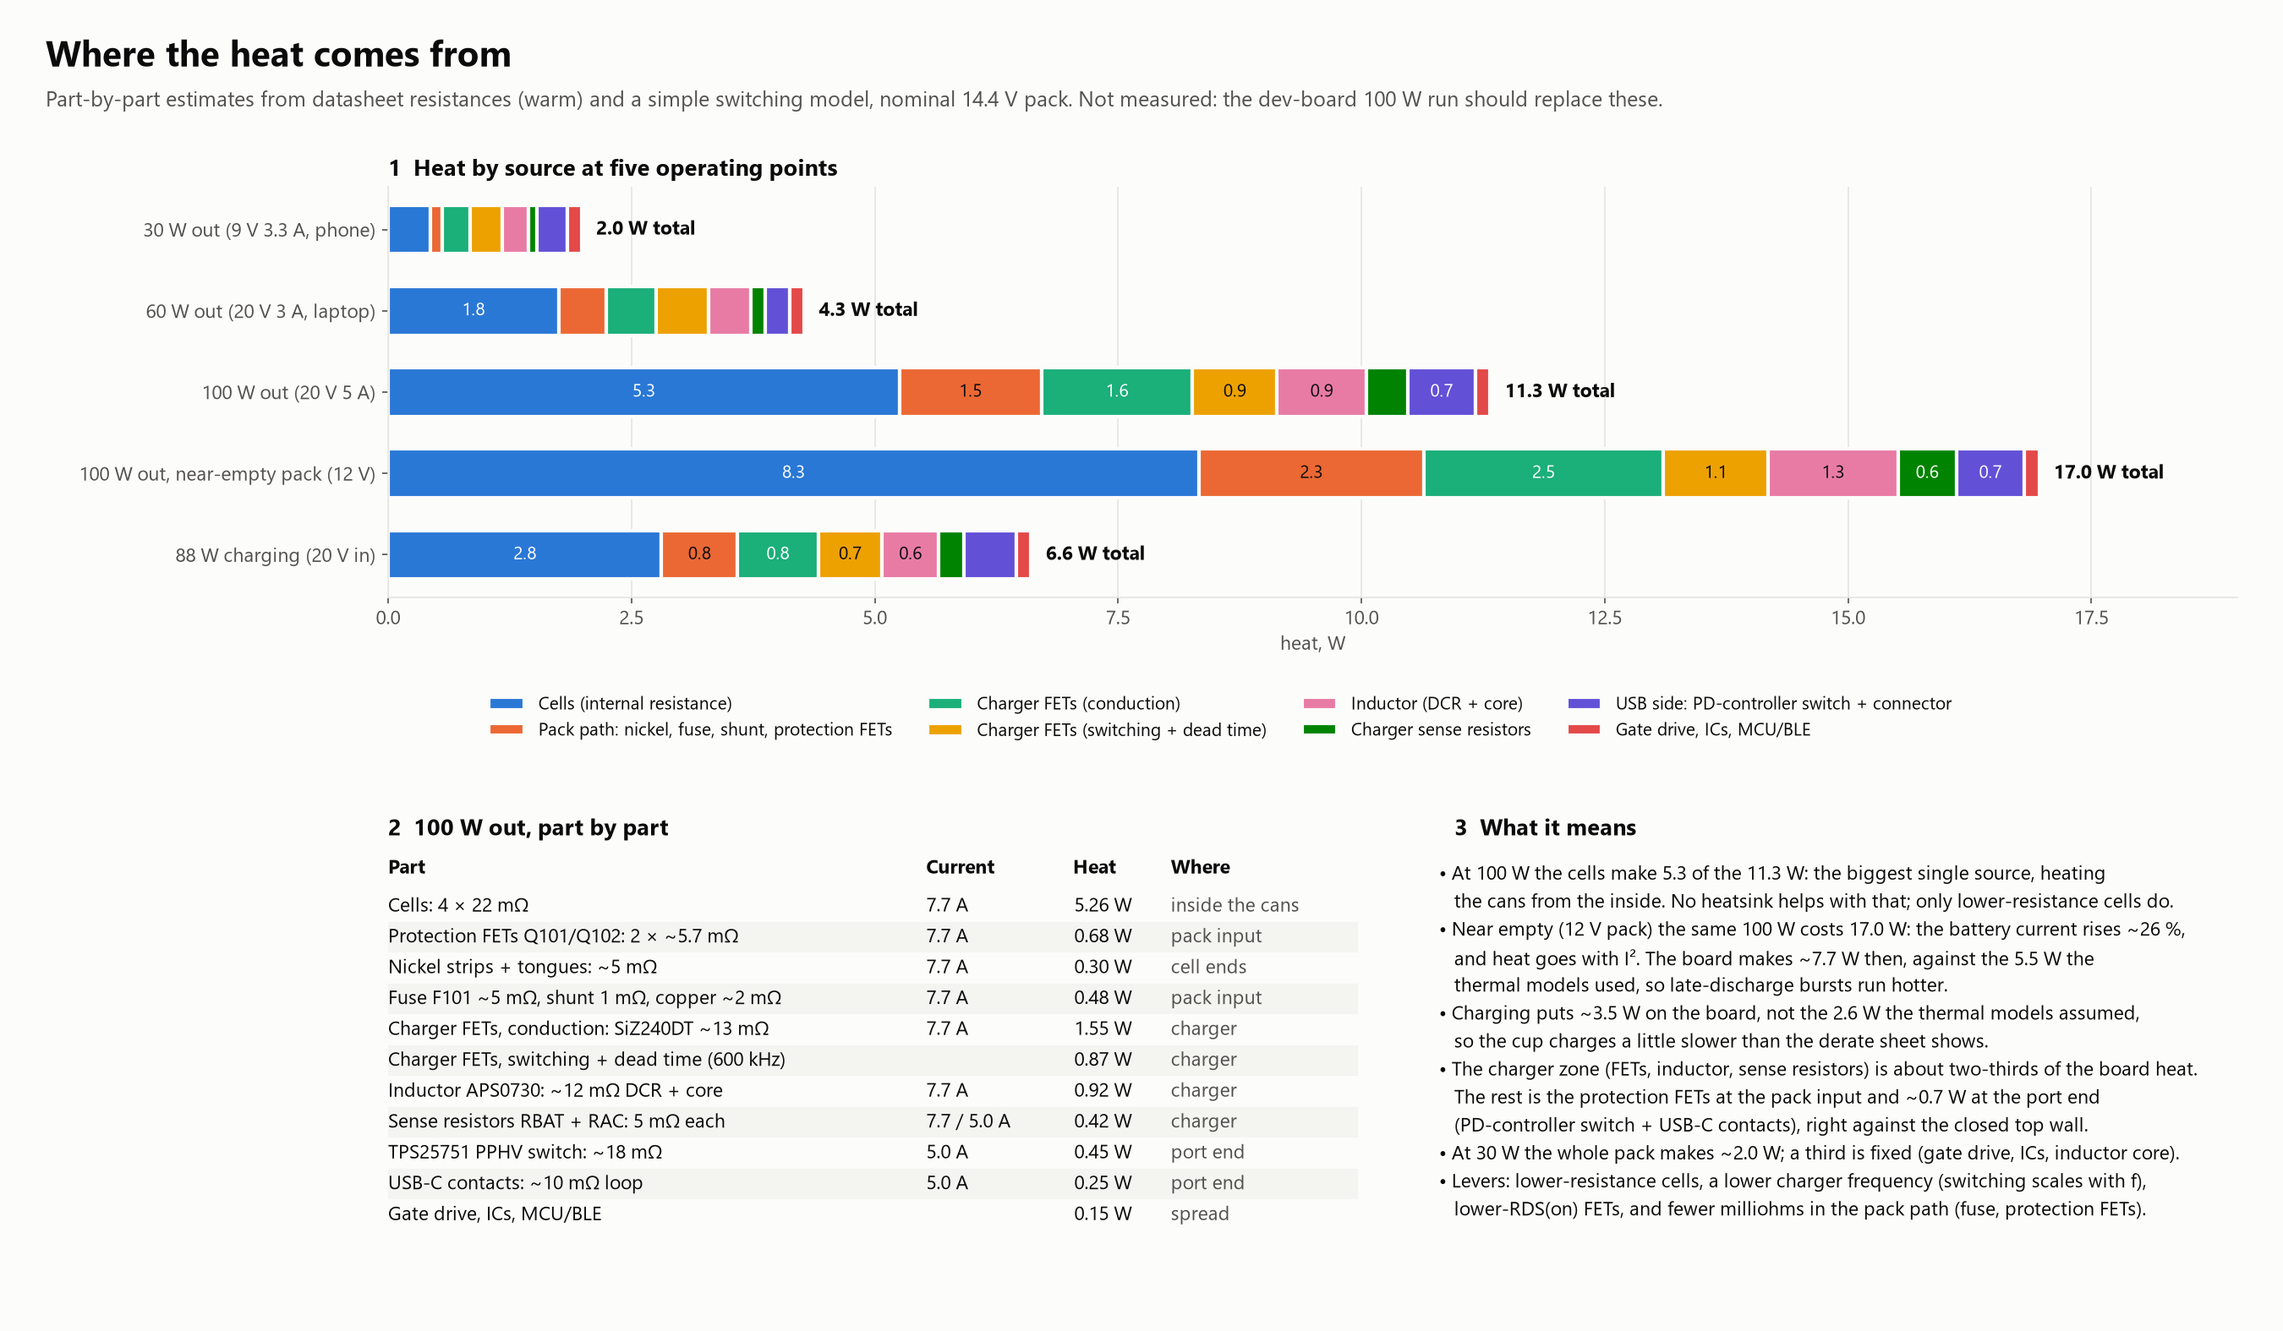
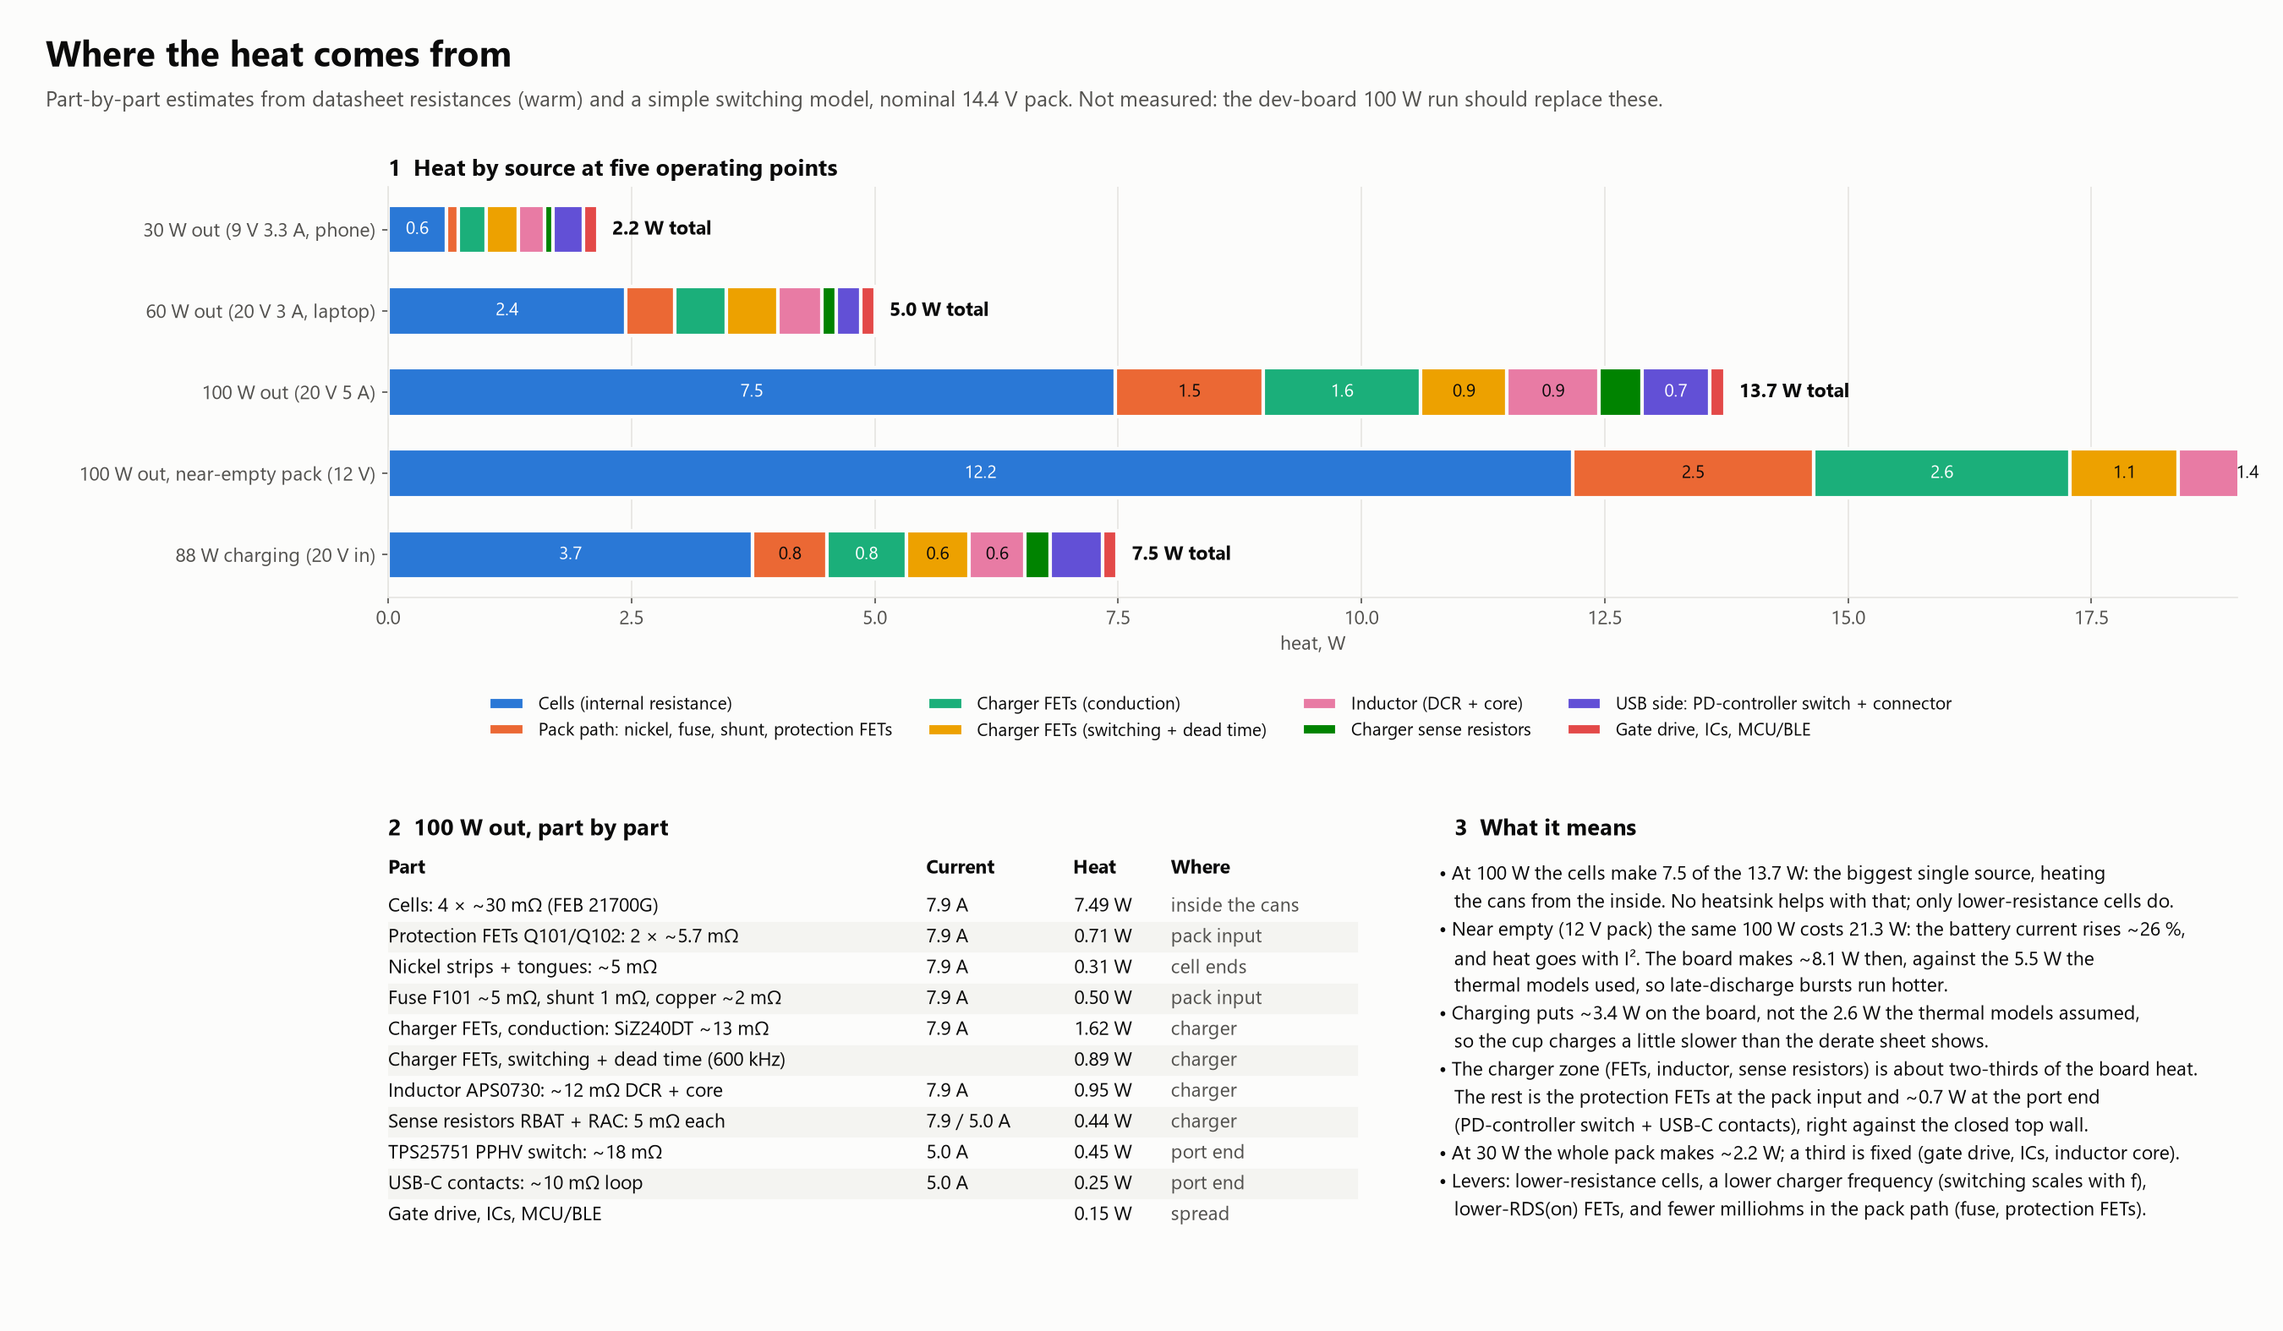
Research notes: loss and thermal models default to the FEB 21700G cells (93.6 Wh, ~30-50 mOhm)

diff --git a/research_notes/Ground-up mechanical concepts/model/thermal_rundown.py b/research_notes/Ground-up mechanical concepts/model/thermal_rundown.py
@@ -15,7 +15,9 @@ P0 = dict(BASE, prot=2*0.0024, nickel=0.0041, fet_9v=0.0090, ind=0.012, core=0.1
 T_EDGE, T_DEAD, V_BODY, C_OSS = 10e-9, 45e-9, 0.8, 600e-12
 def ocv(soc):          # per cell, rough NMC curve
     return np.interp(soc, [0.0, 0.05, 0.10, 0.20, 0.50, 0.80, 1.0], [3.00, 3.25, 3.38, 3.50, 3.65, 3.92, 4.18])
-def r_cell(soc):       # DC, new, 25 C: 22 mOhm mid-charge, ~33 near empty (Loss reduction D)
+def r_cell(soc):       # DC, new, 25 C, FEB 21700G (adopted 2026-10-21): ~30 mOhm mid-charge, ~50 near empty (estimate)
+    return float(np.interp(soc, [0.0, 0.10, 0.25, 1.0], [0.050, 0.043, 0.0315, 0.030]))
+def r_cell_58e(soc):   # the EVE 58E it replaced: 22 mOhm mid-charge, ~33 near empty (Loss reduction D)
     return float(np.interp(soc, [0.0, 0.10, 0.25, 1.0], [0.036, 0.031, 0.022, 0.021]))
 def losses(p, v_usb, soc, prm, charging=False):
     """returns (board W, cells+nickel W, battery current A)"""
@@ -44,7 +46,7 @@ def losses(p, v_usb, soc, prm, charging=False):
 BUILDS = {'Current tray (today\'s parts)': ('Current: 1 mm Al cover', BASE),
           'Cup (today\'s parts)': ('Cup: coupled + PA12 webs', BASE),
           'Cup + P0 loss cuts': ('Cup: coupled + PA12 webs', P0)}
-CAP_WH = 82.0
+CAP_WH = 93.6          # FEB 21700G 4S1P (82 Wh with the EVE 58E)
 def run(build, demand, v_usb=20.0, mode='dis', soc0=None, hours=6.0, derate=True, amb=TD.AMB):
     design, prm = BUILDS[build]; d = TD.DESIGNS[design]; CL = d['al']*0.90
     B = L = F = K = amb; soc = (1.0 if mode == 'dis' else 0.0) if soc0 is None else soc0
@@ -105,7 +107,7 @@ if __name__ == '__main__':
     hot = lambda r: np.maximum(r['F'], r['K'])
     fig = plt.figure(figsize=(18, 12), dpi=150)
     gs = fig.add_gridspec(2, 3, hspace=0.42, wspace=0.25, left=0.05, right=0.98, top=0.87, bottom=0.07)
-    fig.text(0.02, 0.955, 'Thermal rundown: current tray vs the cup, before and after the P0 loss cuts', fontsize=20, weight='bold')
+    fig.text(0.02, 0.955, 'Thermal rundown (FEB 21700G cells): current tray vs the cup, before and after the P0 loss cuts', fontsize=20, weight='bold')
     fig.text(0.02, 0.925, 'Corrected losses, cell resistance and pack voltage following the charge, linear derates (board 60→75 °C, cells 45→55 °C discharging, '
              '40→45 °C charging), 25 °C ambient. Estimates, not measurements.', fontsize=12, color=INK2)
     # 1 losses
@@ -124,28 +126,28 @@ if __name__ == '__main__':
     ax = fig.add_subplot(gs[0, 1]); style(ax)
     for b, (r30, r100, rlo, rch) in res.items():
         ax.plot(r100['t'], r100['P'], color=COL[b], lw=2, label=f"{b}: {wh(r100, 20):.0f} Wh in 20 min, empty at {r100['t'][-1]:.0f} min")
-    ax.set_xlim(0, 85); ax.set_ylim(0, 108); ax.set_xlabel('minutes, 100 W asked, from full'); ax.set_ylabel('power delivered, W')
+    ax.set_xlim(0, 125); ax.set_ylim(0, 108); ax.set_xlabel('minutes, 100 W asked, from full'); ax.set_ylabel('power delivered, W')
     ax.legend(frameon=False, fontsize=9.5, loc='lower left'); ax.set_title('2  100 W asked: what the derate lets out')
     # 3 100 W temps
     ax = fig.add_subplot(gs[0, 2]); style(ax)
     for b, (r30, r100, rlo, rch) in res.items():
         ax.plot(r100['t'], r100['B'], color=COL[b], lw=2, label=f'{b}: board'); ax.plot(r100['t'], hot(r100), color=COL[b], lw=2, ls=(0, (5, 3)), label=f'{b}: hottest cell')
     ax.axhspan(60, 75, color=BANDC, zorder=0); ax.axhspan(45, 55, color='#f6eef1', zorder=0)
-    ax.text(84, 75.5, 'board ramp', ha='right', fontsize=10, color=INK2); ax.text(84, 55.5, 'cell ramp', ha='right', fontsize=10, color=INK2)
-    ax.set_xlim(0, 85); ax.set_ylim(24, 80); ax.set_xlabel('minutes'); ax.set_ylabel('°C'); ax.legend(frameon=False, fontsize=8.5, loc='lower right')
+    ax.text(124, 75.5, 'board ramp', ha='right', fontsize=10, color=INK2); ax.text(124, 55.5, 'cell ramp', ha='right', fontsize=10, color=INK2)
+    ax.set_xlim(0, 125); ax.set_ylim(24, 80); ax.set_xlabel('minutes'); ax.set_ylabel('°C'); ax.legend(frameon=False, fontsize=8.5, loc='lower right')
     ax.set_title('3  100 W asked: temperatures')
     # 4 30 W
     ax = fig.add_subplot(gs[1, 0]); style(ax)
     for b, (r30, r100, rlo, rch) in res.items():
         ax.plot(r30['t']/60, r30['B'], color=COL[b], lw=2, label=f'{b}: board'); ax.plot(r30['t']/60, hot(r30), color=COL[b], lw=2, ls=(0, (5, 3)), label=f'{b}: hottest cell')
-    ax.axhline(45, color='#8a8984', lw=1.2, ls=(0, (4, 3))); ax.text(2.6, 45.4, 'cell derate starts at 45 °C', ha='right', fontsize=10, color=INK2)
-    ax.set_xlim(0, 2.75); ax.set_ylim(24, 50); ax.set_xlabel('hours at 30 W (15 V 2 A), full to empty'); ax.set_ylabel('°C')
+    ax.axhline(45, color='#8a8984', lw=1.2, ls=(0, (4, 3))); ax.text(3.05, 45.4, 'cell derate starts at 45 °C', ha='right', fontsize=10, color=INK2)
+    ax.set_xlim(0, 3.1); ax.set_ylim(24, 55); ax.set_xlabel('hours at 30 W (15 V 2 A), full to empty'); ax.set_ylabel('°C')
     ax.legend(frameon=False, fontsize=8.5, loc='lower right'); ax.set_title('4  30 W continuous: no derate in any build')
     # 5 charging power
     ax = fig.add_subplot(gs[1, 1]); style(ax)
     for b, (r30, r100, rlo, rch) in res.items():
         ax.plot(rch['t'], rch['P'], color=COL[b], lw=2, label=f"{b}: full at {rch['t'][-1]:.0f} min")
-    ax.set_xlim(0, 105); ax.set_ylim(0, 95); ax.set_xlabel('minutes charging, 88 W asked, empty to full (no CC-CV taper)'); ax.set_ylabel('charge power, W')
+    ax.set_xlim(0, 160); ax.set_ylim(0, 95); ax.set_xlabel('minutes charging, 88 W asked, empty to full (no CC-CV taper)'); ax.set_ylabel('charge power, W')
     ax.legend(frameon=False, fontsize=9.5, loc='lower left'); ax.set_title('5  Charging at 88 W')
     # 6 100 W from 25 %
     ax = fig.add_subplot(gs[1, 2]); style(ax)
@@ -154,6 +156,6 @@ if __name__ == '__main__':
     ax.set_xlim(0, 25); ax.set_ylim(0, 108); ax.set_xlabel('minutes, 100 W asked from 25 % charge (cells start at 25 °C)'); ax.set_ylabel('power delivered, W')
     ax.legend(frameon=False, fontsize=9.5, loc='lower left'); ax.set_title('6  Late in the charge: higher resistance, less headroom')
     fig.text(0.02, 0.02, 'P0 cuts: XRS120N04D protection FETs, 9 V gate drive (LDO, on above 45 W), XGL7030-332 at 500 kHz, 0.2 x 10 Ni strips + Cu PACK tails. '
-             'Both use F102 at 2.5 mΩ, inductor and gate-drive corrections, cells 21-36 mΩ by charge. The 5 V output path is not modelled.', fontsize=10.5, color=INK2)
+             'Both: F102 at 2.5 mΩ, FEB 21700G cells (30-50 mΩ by charge, 93.6 Wh). 5 V path not modelled.', fontsize=10.5, color=INK2)
     fig.savefig(os.path.join(HERE, 'thermal_rundown.png'), facecolor=SURF)
     print('wrote thermal_rundown.png')

diff --git a/research_notes/Ground-up mechanical concepts/model/thermal_derate_visuals.py b/research_notes/Ground-up mechanical concepts/model/thermal_derate_visuals.py
@@ -26,7 +26,7 @@ hot = lambda r: np.maximum(r['F'], r['K'])
 
 fig = plt.figure(figsize=(18, 11.5), dpi=150)
 gs = fig.add_gridspec(2, 3, hspace=0.45, wspace=0.26, left=0.05, right=0.97, top=0.87, bottom=0.08)
-fig.text(0.02, 0.955, 'Linear thermal derate: 30 W continuous, 100 W asked for, and 88 W charging', fontsize=20, weight='bold')
+fig.text(0.02, 0.955, 'Linear thermal derate (FEB 21700G cells): 30 W continuous, 100 W asked for, and 88 W charging', fontsize=20, weight='bold')
 fig.text(0.02, 0.925, 'Firmware lowers the power limit in a straight line from full to zero across a temperature band, on whichever sensor is worst. '
          'Lumped estimates at 25 °C ambient (thermal_derate.py); trust the ranking more than the absolute numbers.', fontsize=12, color=INK2)
 
@@ -45,9 +45,9 @@ ax = fig.add_subplot(gs[0, 1]); style(ax)
 for n, r in R30.items():
     ax.plot(r['t']/60, r['B'], color=COL[n], lw=2, label=f'{n}: board')
     ax.plot(r['t']/60, hot(r), color=COL[n], lw=2, ls=(0, (5, 3)), label=f'{n}: hottest cell')
-ax.set_xlim(0, 2.7); ax.set_ylim(24, 66)
-ax.axhspan(60, 66, color=BANDC, zorder=0); ax.text(2.67, 61, 'board derate starts at 60 °C', ha='right', fontsize=10, color=INK2)
-ax.text(2.67, 45.4, 'cell derate starts at 45 °C', ha='right', fontsize=10, color=INK2)
+ax.set_xlim(0, 3.1); ax.set_ylim(24, 66)
+ax.axhspan(60, 66, color=BANDC, zorder=0); ax.text(3.05, 61, 'board derate starts at 60 °C', ha='right', fontsize=10, color=INK2)
+ax.text(3.05, 45.4, 'cell derate starts at 45 °C', ha='right', fontsize=10, color=INK2)
 ax.axhline(45, color=MUTE, lw=1.2, ls=(0, (4, 3)))
 ax.set_xlabel('hours at 30 W (the pack runs empty at 2.6 h)'); ax.set_ylabel('°C')
 ax.legend(frameon=False, fontsize=9.5, loc='upper left', ncol=1)
@@ -57,7 +57,7 @@ ax.set_title('2  30 W continuous: nothing derates, in any design')
 ax = fig.add_subplot(gs[0, 2]); style(ax)
 for n, r in R100.items():
     ax.plot(r['t'], r['P'], color=COL[n], lw=2, label=f"{n} (empty at {r['t'][-1]:.0f} min)")
-ax.set_xlim(0, 80); ax.set_ylim(0, 108); ax.set_xlabel('minutes, 100 W asked for'); ax.set_ylabel('power delivered, W')
+ax.set_xlim(0, 120); ax.set_ylim(0, 108); ax.set_xlabel('minutes, 100 W asked for'); ax.set_ylabel('power delivered, W')
 ax.legend(frameon=False, fontsize=10, loc='lower left')
 txt = '\n'.join(f"{n.split(':')[0]}: {TD.out_wh(r, 20):.1f} Wh in the first 20 min, {np.mean(r['P']):.0f} W average" for n, r in R100.items())
 ax.text(79, 104, txt, ha='right', va='top', fontsize=10, color=INK2)
@@ -68,7 +68,7 @@ ax = fig.add_subplot(gs[1, 0]); style(ax)
 for n, r in R100.items():
     ax.plot(r['t'], r['B'], color=COL[n], lw=2, label=f'{n}: board')
     ax.plot(r['t'], hot(r), color=COL[n], lw=2, ls=(0, (5, 3)), label=f'{n}: hottest cell')
-ax.set_xlim(0, 80); ax.set_ylim(24, 80)
+ax.set_xlim(0, 120); ax.set_ylim(24, 80)
 ax.axhspan(60, 75, color=BANDC, zorder=0); ax.axhspan(45, 55, color='#f6eef1', zorder=0)
 ax.text(79, 75.5, 'board ramp 60–75 °C', ha='right', fontsize=10, color=INK2); ax.text(79, 55.5, 'cell ramp 45–55 °C', ha='right', fontsize=10, color=INK2)
 ax.set_xlabel('minutes, 100 W asked for'); ax.set_ylabel('°C'); ax.legend(frameon=False, fontsize=9, loc='lower right', ncol=1)
@@ -78,7 +78,7 @@ ax.set_title('4  100 W asked for: what limits each design')
 ax = fig.add_subplot(gs[1, 1]); style(ax)
 for n, r in RCH.items():
     ax.plot(r['t'], r['P'], color=COL[n], lw=2, label=f"{n} (full at {r['t'][-1]:.0f} min)")
-ax.set_xlim(0, 90); ax.set_ylim(0, 95); ax.set_xlabel('minutes charging, 88 W asked for (empty to full, no CC-CV taper)'); ax.set_ylabel('charge power, W')
+ax.set_xlim(0, 150); ax.set_ylim(0, 95); ax.set_xlabel('minutes charging, 88 W asked for (empty to full, no CC-CV taper)'); ax.set_ylabel('charge power, W')
 ax.legend(frameon=False, fontsize=10, loc='lower left'); ax.set_title('5  Charging: the cup derates first and finishes last')
 
 # 6. charging: cells
@@ -86,8 +86,8 @@ ax = fig.add_subplot(gs[1, 2]); style(ax)
 for n, r in RCH.items():
     ax.plot(r['t'], hot(r), color=COL[n], lw=2, label=f'{n}: hottest cell')
     ax.plot(r['t'], r['B'], color=COL[n], lw=1.6, ls=(0, (5, 3)), label=f'{n}: board')
-ax.set_xlim(0, 90); ax.set_ylim(24, 66); ax.axhspan(40, 45, color='#efedf9', zorder=0)
-ax.text(89, 45.4, 'charge ramp 40–45 °C', ha='right', fontsize=10, color=INK2)
+ax.set_xlim(0, 150); ax.set_ylim(24, 66); ax.axhspan(40, 45, color='#efedf9', zorder=0)
+ax.text(149, 45.4, 'charge ramp 40–45 °C', ha='right', fontsize=10, color=INK2)
 ax.set_xlabel('minutes charging'); ax.set_ylabel('°C'); ax.legend(frameon=False, fontsize=9, loc='lower right', ncol=1)
 ax.set_title('6  Charging: the cells pin at the ramp')
 

diff --git a/research_notes/Ground-up mechanical concepts/model/thermal_derate.py b/research_notes/Ground-up mechanical concepts/model/thermal_derate.py
@@ -3,14 +3,14 @@ Nodes: board (B), Al cover/lid (L, where there is one), front cell pair (F, face
 Firmware derate is linear, not a step: the allowed power falls from full to zero across a temperature band,
 on whichever sensor is worst (board copper, hottest cell). Losses scale with power:
   board loss  = 0.024 P + 3.1e-4 P^2  (fits ~1.0 W at 30 W, ~2.5 W at 60 W, ~5.5 W at 100 W: schematic review 4)
-  cell I2R    = 4.8e-4 P^2            (4 x 22 mOhm at 14.4 V; 4.8 W at 100 W)
-  charging    = board 2.6 W and cells 2.7 W at 88 W, same shape. CC-CV taper is ignored.
+  cell I2R    = 6.5e-4 P^2            (4 x ~30 mOhm FEB 21700G at 14.4 V; ~6.5 W at 100 W. Was 4.8e-4 for the EVE 58E)
+  charging    = board 2.6 W and cells 3.7 W at 88 W (FEB), same shape. CC-CV taper is ignored.
 Run: python thermal_derate.py  -> prints the scenario table; thermal_derate_visuals.py draws the sheet."""
 import numpy as np
 AMB = 25.0
 CB, CPAIR = 20.0, 135.0                     # board (+ parts), each cell pair (J/K)
 G_SKIN = 0.065                              # each cell pair -> skin -> air (W/K)
-PACK_WH = 82.0
+PACK_WH = 93.6                              # FEB 21700G, 6.5 Ah x 14.4 V (was 82 Wh with the EVE 58E)
 # design: Al mass (g), board->Al, Al->air, board->front pair, front<->back pair, board->air (W/K)
 DESIGNS = {
     'Current: 1 mm Al cover':  dict(al=9.5,  gbl=2.0, gla=0.039, gbf=0.04, gfk=0.06,  gba=0.0),    # TPU cage bands between the cells
@@ -19,14 +19,14 @@ DESIGNS = {
 }
 # linear derate bands (full power at or below the first temperature, zero at the second)
 BANDS = dict(board=(60.0, 75.0),            # board copper: stays clear of the 81 C TS hardware stop
-             cell_dis=(45.0, 55.0),         # hottest cell, discharging (EVE limit 60 C)
-             cell_chg=(40.0, 45.0))         # hottest cell, charging (EVE limit 45 C)
+             cell_dis=(45.0, 55.0),         # hottest cell, discharging (cell limit 60 C)
+             cell_chg=(40.0, 45.0))         # hottest cell, charging (cell limit 45 C)
 def ramp(t, band):
     lo, hi = band
     return float(np.clip((hi - t) / (hi - lo), 0.0, 1.0))
-def loss_dis(p): return 0.024*p + 3.1e-4*p*p, 4.8e-4*p*p
+def loss_dis(p): return 0.024*p + 3.1e-4*p*p, 6.5e-4*p*p
 def loss_chg(p):
-    x = p / 88.0; return 2.6*(0.4*x + 0.6*x*x), 2.7*x*x
+    x = p / 88.0; return 2.6*(0.4*x + 0.6*x*x), 3.7*x*x
 def run(design, demand, mode='dis', hours=6.0, derate=True, dt=1.0):
     """demand: W (constant). Returns dict of arrays: t (min), P delivered, B, L, F, K, energy (Wh)."""
     d = DESIGNS[design]; CL = d['al']*0.90

diff --git a/research_notes/Ground-up mechanical concepts/model/heat_sources.py b/research_notes/Ground-up mechanical concepts/model/heat_sources.py
@@ -7,7 +7,8 @@ V_PACK = 14.4                  # nominal 4S
 F_SW = 600e3                   # BQ25756 switching frequency (598 kHz, schematic review 4)
 # resistances (ohm), warm. Sources: datasheets/ and docs/devboard reviews
 R = dict(
-    cell=0.022,                # each of 4: EVE 58E 18 mOhm at 1 kHz new (eve-inr21700-58e.pdf 7.4); DC a little higher
+    cell=0.030,                # each of 4: FEB 21700G (68E), <= 25 mOhm spec; ~30 mOhm DC mid-charge is an estimate
+                               # (the cell adopted 2026-10-21; the EVE 58E it replaced was ~22 mOhm DC)
     nickel=0.005,              # strips + tongues, whole path (estimate)
     fuse=0.005,                # F101 hot (review 2, A-findings)
     shunt=0.001,               # RS101 gauge shunt (pa2512-1mohm)
@@ -104,7 +105,7 @@ if __name__ == '__main__':
     # 100 W detail table
     ax = fig.add_subplot(gs[1, 0]); ax.axis('off'); ax.set_title('2  100 W out, part by part', pad=10)
     g, ib, iu = res[2][1], res[2][2], res[2][3]
-    rows = [('Cells: 4 × 22 mΩ', f'{ib:.1f} A', 4*R['cell']*ib**2, 'inside the cans'),
+    rows = [('Cells: 4 × ~30 mΩ (FEB 21700G)', f'{ib:.1f} A', 4*R['cell']*ib**2, 'inside the cans'),
             ('Protection FETs Q101/Q102: 2 × ~5.7 mΩ', f'{ib:.1f} A', R['prot']*ib**2, 'pack input'),
             ('Nickel strips + tongues: ~5 mΩ', f'{ib:.1f} A', R['nickel']*ib**2, 'cell ends'),
             ('Fuse F101 ~5 mΩ, shunt 1 mΩ, copper ~2 mΩ', f'{ib:.1f} A', (R['fuse'] + R['shunt'] + R['pack_cu'])*ib**2, 'pack input'),
